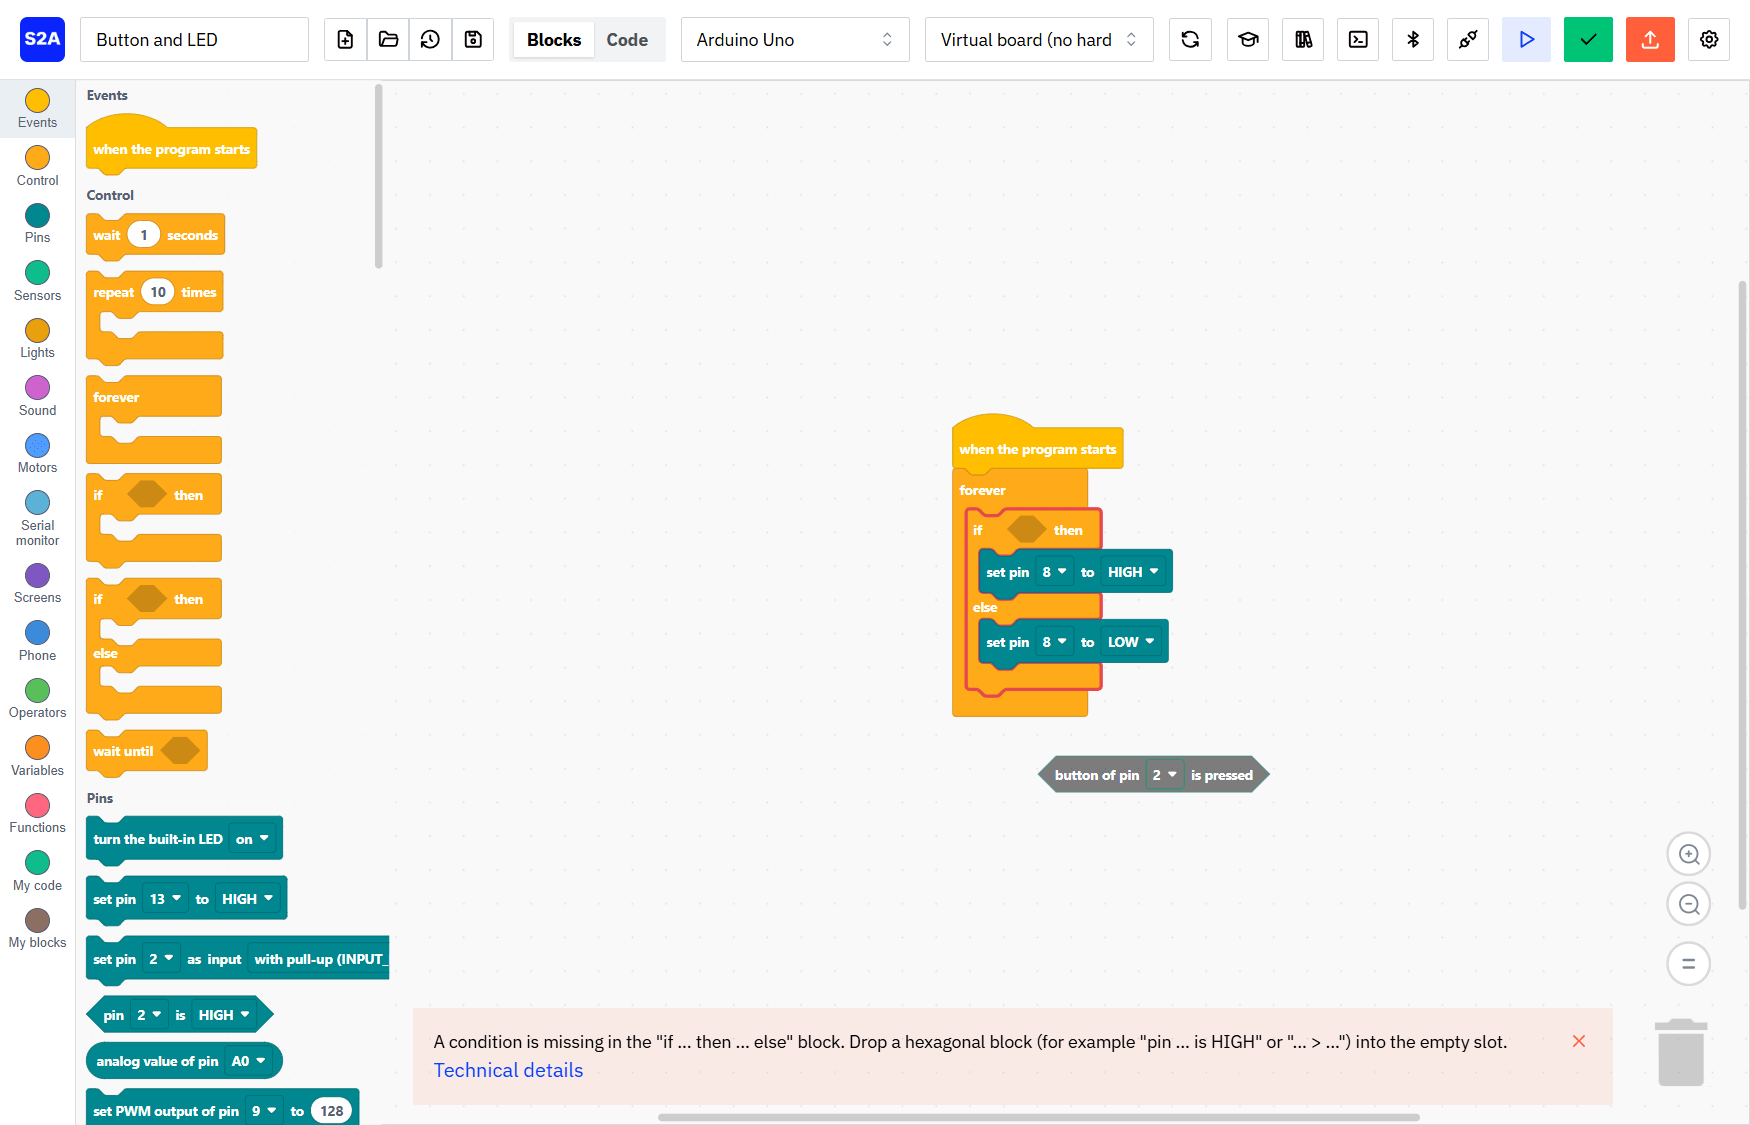
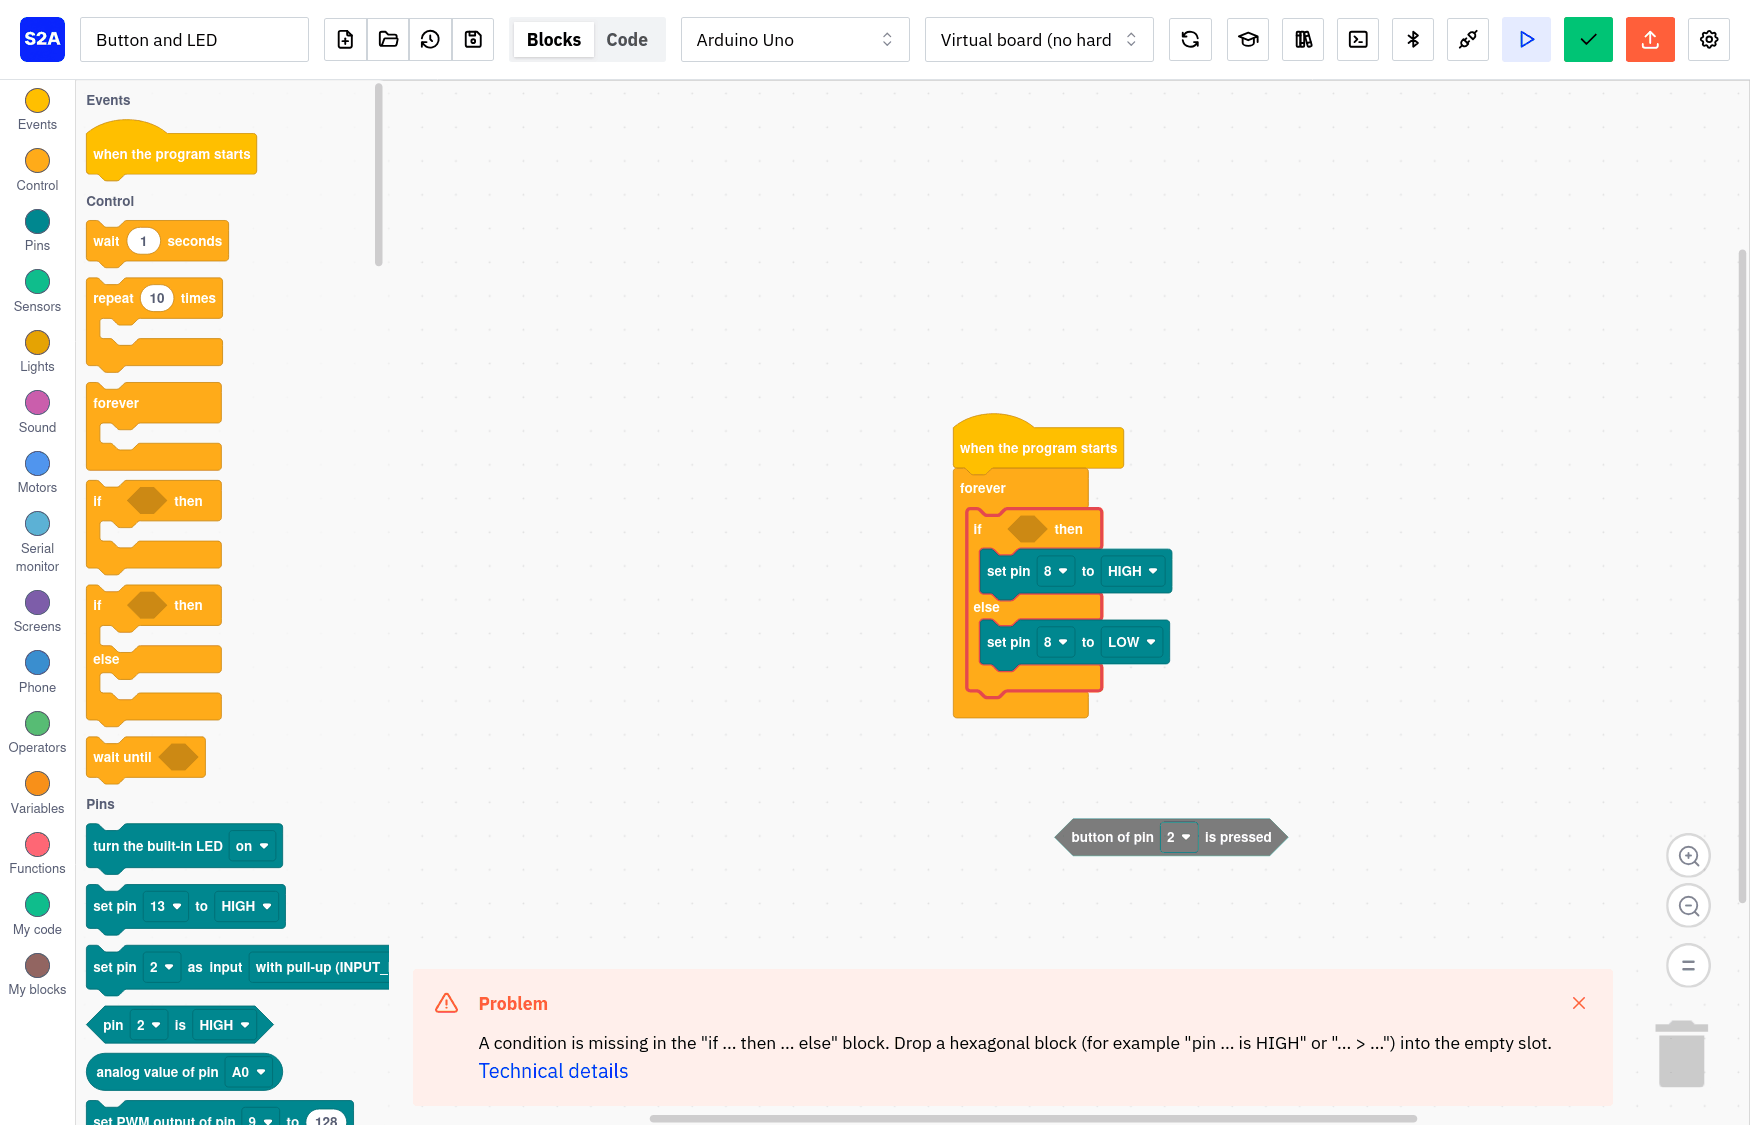
docs: status message with its state in words (#211)
User guides fr/en and the Blink tutorial say "status message" (it is a box now, not a bar) and
describe the state word and icon; developer guide names it as a non-colour cue. Check error
screenshots retaken with the new message.

diff --git a/docs/fr/guide.md b/docs/fr/guide.md
@@ -204,8 +204,8 @@ ordinateur.
 - **Zone de travail** (au centre) : là où tu assembles les blocs. La molette fait défiler ; les boutons
   **+**, **−** et **=** (en bas à droite) zooment ; la **poubelle** jette les blocs qu'on y dépose.
 - **Panneaux** (à droite, quand ils sont ouverts) : les valeurs en direct du mode Live, le moniteur série.
-- **Barre d'état** (en bas) : ce qui se passe ("Vérification du programme...") et les problèmes à
-  corriger.
+- **Message d'état** (en bas) : ce qui se passe ("Vérification du programme...") et les problèmes à
+  corriger. Chaque message commence par son état en mots et une icône : "Problème", "C'est fait" ou "Info". Il reste à l'écart des panneaux et du tutoriel, et sa croix le ferme.
 
 ![La fenêtre de Scratch2Arduino avec l'exemple Clignotant : la barre du haut, la palette des familles de blocs à gauche et le programme dans la zone de travail](../images/fr/editor-blink.png)
 
@@ -272,7 +272,7 @@ composant**. La liste complète est dans le [catalogue des blocs](../block-catal
 
 ![La vue Code : le code Arduino (C++) fabriqué à partir des blocs de l'exemple Clignotant, avec setup() et loop()](../images/fr/code-view.png)
 
-Quand il y a un problème, la barre d'état explique **ce qui ne va pas** et **comment le corriger**, et
+Quand il y a un problème, le message d'état explique **ce qui ne va pas** et **comment le corriger**, et
 le bloc concerné est mis en évidence dans la zone de travail. Exemples :
 
 - "Ton programme ne commence nulle part." -> ajoute *quand le programme démarre* et accroche tes blocs
@@ -281,7 +281,9 @@ le bloc concerné est mis en évidence dans la zone de travail. Exemples :
 - "La broche 7 de la carte Arduino Uno ne sait pas faire "sortie PWM" (bloc "...")." -> choisis une des broches
   proposées (celles marquées d'un `~` sur la carte).
 
-![Une erreur après Vérifier : la condition a été retirée du bloc "si ... alors ... sinon", qui est encadré en rouge, et la barre d'état explique qu'il manque une condition et comment la remettre](../images/fr/check-error.png)
+Son titre donne l'état en mots, **Problème**, **C'est fait** ou **Info**, avec une icône ; un lecteur d'écran annonce tout de suite un problème.
+
+![Une erreur après Vérifier : la condition a été retirée du bloc "si ... alors ... sinon", qui est encadré en rouge, et le message d'état explique qu'il manque une condition et comment la remettre](../images/fr/check-error.png)
 
 ## 7. Le mode Live
 

diff --git a/docs/en/guide.md b/docs/en/guide.md
@@ -193,7 +193,7 @@ computer.
 - **Workspace** (centre): where you put the blocks together. The wheel scrolls; the **+**, **−** and
   **=** buttons (bottom right) zoom; the **trash can** throws away the blocks dropped on it.
 - **Panels** (right, when open): the live values of Live mode, the serial monitor.
-- **Status bar** (bottom): what is going on ("Checking the program...") and the problems to fix.
+- **Status message** (bottom): what is going on ("Checking the program...") and the problems to fix. Each message starts with its state in words and an icon: "Problem", "Done" or "Info". It stays clear of the panels and the tutorials, and its cross button closes it.
 
 ![The Scratch2Arduino window with the Blink example: the top bar, the palette of block categories on the left and the program in the workspace](../images/en/editor-blink.png)
 
@@ -258,7 +258,7 @@ list is in the [block catalog](../block-catalog.md).
 
 ![The Code view: the Arduino code (C++) made from the blocks of the Blink example, with setup() and loop()](../images/en/code-view.png)
 
-When something is wrong, the status bar explains **what is wrong** and **how to fix it**, and the block
+When something is wrong, the status message explains **what is wrong** and **how to fix it**, and the block
 concerned is highlighted in the workspace. For example:
 
 - "Your program does not start anywhere." -> add *when the program starts* and attach your blocks below it;
@@ -266,7 +266,9 @@ concerned is highlighted in the workspace. For example:
 - "Pin 7 of the Arduino Uno board cannot do "PWM output"." -> choose one of the pins offered (those marked with
   a `~` on the board).
 
-![An error after Check: the condition was pulled out of the "if ... then ... else" block, which is framed in red, and the status bar explains that a condition is missing and how to put one back](../images/en/check-error.png)
+Its title gives the state in words, **Problem**, **Done** or **Info**, and a screen reader announces a problem at once.
+
+![An error after Check: the condition was pulled out of the "if ... then ... else" block, which is framed in red, and the status message explains that a condition is missing and how to put one back](../images/en/check-error.png)
 
 ## 7. Live mode
 

diff --git a/docs/developer-guide.md b/docs/developer-guide.md
@@ -216,8 +216,8 @@ work". Update both languages in the same pull request.
   `ci.yml`), and the in-app update checks the installer against it (`s2a::integrity::verifyFile`)
   in a new temporary folder before Windows runs it as administrator.
 - **Accessible to every child**: the page language follows the chosen one (`<html lang>`), a state is never
-  told by colour only (the LEDs of the virtual board say "on" or "off" in their name and have an outline
-  when off), text that keeps arriving is a live region (the serial monitor is a `role="log"`).
+  told by colour only (the status message has an icon and a title word, Problem, Done or Info; the LEDs of the
+  virtual board say "on" or "off" in their name and have an outline when off), text that keeps arriving is a live region (the serial monitor is a `role="log"`).
 - **Tutorial locks hold**: locking a block clears Blockly's undo history (`frontend/src/locks.ts`), since
   undo replays edits whatever the locks.
 - **Generated code computes in `double`**, as Scratch does: an `int` is 16 bits on AVR boards (Uno, Nano,

diff --git a/docs/fr/tutorials/01-blink.md b/docs/fr/tutorials/01-blink.md
@@ -47,7 +47,7 @@ répéter indéfiniment
 ## 3. Envoie-le dans la carte
 
 1. Clique sur **Vérifier** (vert) : Scratch2Arduino contrôle ton programme. S'il manque quelque chose,
-   la barre d'état en bas te dit quoi corriger et le bloc concerné est mis en évidence.
+   le message d'état en bas te dit quoi corriger et le bloc concerné est mis en évidence.
 2. Clique sur **Téléverser** (orange). La première fois, c'est un peu long : les outils de la carte se
    téléchargent (il faut Internet).
 3. La LED **L** clignote : une seconde allumée, une seconde éteinte. Bravo, c'est ton premier programme !

diff --git a/docs/en/tutorials/01-blink.md b/docs/en/tutorials/01-blink.md
@@ -44,7 +44,7 @@ forever
 
 ## 3. Send it to the board
 
-1. Click **Check** (green): Scratch2Arduino checks your program. If something is missing, the status bar
+1. Click **Check** (green): Scratch2Arduino checks your program. If something is missing, the status message
    at the bottom tells you what to fix and the block concerned is highlighted.
 2. Click **Upload** (orange). The first time takes a while: the board's tools are downloaded (Internet
    needed).
